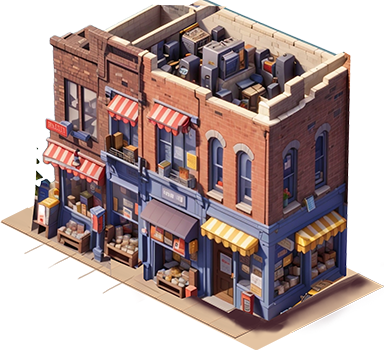
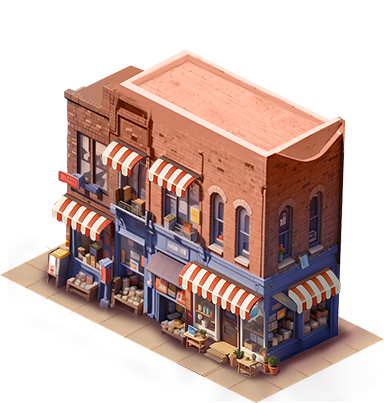
feat: update buildings (#38)
* feat: update camera limits

* feat: update buildings

diff --git a/lib/common/components/building_component.dart b/lib/common/components/building_component.dart
@@ -2,6 +2,8 @@ import 'dart:async';
 
 import 'package:big_apple/common/components/world/main_world.dart';
 import 'package:big_apple/common/components/zone_component.dart';
+import 'package:big_apple/data/dto/enum/manufactory_type.dart';
+import 'package:big_apple/data/dto/enum/road_type.dart';
 import 'package:flutter/material.dart';
 
 import 'package:flame/components.dart';
@@ -31,7 +33,8 @@ class BuildingComponent extends SpriteComponent
     super.anchor = Anchor.center,
     bool markAsBuild = false,
   }) : super(
-          priority: building.coordinates.y.toInt() + 100,
+          priority: building.coordinates.y.toInt() +
+              (building.building.type == ManufactoryType.coalElectricStation ? 100 : 0),
           position: Vector2(building.coordinates.x, building.coordinates.y),
         ) {
     id = building.id;
@@ -70,9 +73,18 @@ class BuildingComponent extends SpriteComponent
 
   @override
   FutureOr<void> onLoad() async {
-    size = Vector2(256, 178);
     sprite = Sprite(game.images.fromCache(building.building.imageDone()));
-    position = Vector2(building.coordinates.x, building.coordinates.y);
+
+    if (building.building.type == ManufactoryType.coalElectricStation) {
+      size = Vector2(512, 533);
+      position = Vector2(building.coordinates.x, building.coordinates.y - 54);
+    } else if (building.building.type == RoadType.road) {
+      size = Vector2(256, 133);
+      position = Vector2(building.coordinates.x, building.coordinates.y + 28);
+    } else {
+      size = Vector2(256, 256);
+      position = Vector2(building.coordinates.x, building.coordinates.y - 45);
+    }
 
     return super.onLoad();
   }
@@ -119,8 +131,12 @@ class BuildingComponent extends SpriteComponent
     ZoneComponent? zone = world.getZoneByVector2(newPosition);
 
     if (zone?.isAvailable == true) {
+      if (building.building.type == RoadType.road) {
+        position = newPosition + Vector2(0, 28);
+      } else {
+        position = newPosition - Vector2(0, 45);
+      }
       priority = position.y.toInt() + 100;
-      position = newPosition;
       if (_isBuild) {
         zone?.changeAvailability(false);
         ZoneComponent? previousZone = world.getZoneByVector2(positionBeforeDrag!);

diff --git a/lib/data/dto/apartment.dart b/lib/data/dto/apartment.dart
@@ -182,7 +182,7 @@ class Apartment extends Building<ApartmentType> {
         path = Assets.images.apartmentLvl1.path;
         break;
       case ApartmentType.skyscraper:
-        path = Assets.images.apartmentLvl1.path;
+        path = Assets.images.scyscraperLvl1.path;
         break;
     }
     if (replacePath) return path.removeAssetsImagesPath();
@@ -194,13 +194,13 @@ class Apartment extends Building<ApartmentType> {
     String path = '';
     switch (type) {
       case ApartmentType.house:
-        path = Assets.images.houseLvl1Half.path;
+        path = Assets.images.initialBuilding1x1.path;
         break;
       case ApartmentType.apartment:
-        path = Assets.images.apartmentLvl1.path;
+        path = Assets.images.initialBuilding2x1.path;
         break;
       case ApartmentType.skyscraper:
-        path = Assets.images.apartmentLvl1.path;
+        path = Assets.images.initialBuilding2x2.path;
         break;
     }
     if (replacePath) return path.removeAssetsImagesPath();
@@ -212,13 +212,13 @@ class Apartment extends Building<ApartmentType> {
     String path = '';
     switch (type) {
       case ApartmentType.house:
-        path = Assets.images.initialBuilding1On1.path;
+        path = Assets.images.initialBuilding1x1.path;
         break;
       case ApartmentType.apartment:
-        path = Assets.images.apartmentLvl1.path;
+        path = Assets.images.initialBuilding2x1.path;
         break;
       case ApartmentType.skyscraper:
-        path = Assets.images.apartmentLvl1.path;
+        path = Assets.images.initialBuilding2x2.path;
         break;
     }
     if (replacePath) return path.removeAssetsImagesPath();

diff --git a/lib/data/dto/manufactory.dart b/lib/data/dto/manufactory.dart
@@ -194,13 +194,13 @@ class Manufactory extends Building<ManufactoryType> {
     String path = '';
     switch (type) {
       case ManufactoryType.coalElectricStation:
-        path = Assets.images.coalLvl1.path;
+        path = Assets.images.initialBuilding2x2.path;
         break;
       case ManufactoryType.atomicElectricityStation:
-        path = Assets.images.atomLvl1.path;
+        path = Assets.images.initialBuilding2x2.path;
         break;
       case ManufactoryType.windElectricityStation:
-        path = Assets.images.electricityLvl1.path;
+        path = Assets.images.initialBuilding1x1.path;
         break;
     }
     if (replacePath) return path.removeAssetsImagesPath();
@@ -212,13 +212,13 @@ class Manufactory extends Building<ManufactoryType> {
     String path = '';
     switch (type) {
       case ManufactoryType.coalElectricStation:
-        path = Assets.images.coalLvl1.path;
+        path = Assets.images.initialBuilding2x2.path;
         break;
       case ManufactoryType.atomicElectricityStation:
-        path = Assets.images.atomLvl1.path;
+        path = Assets.images.initialBuilding2x2.path;
         break;
       case ManufactoryType.windElectricityStation:
-        path = Assets.images.initialBuilding1On1.path;
+        path = Assets.images.initialBuilding1x1.path;
         break;
     }
     if (replacePath) return path.removeAssetsImagesPath();

diff --git a/lib/data/dto/commercial.dart b/lib/data/dto/commercial.dart
@@ -210,13 +210,13 @@ class Commercial extends Building<CommercialType> {
     String path = '';
     switch (type) {
       case CommercialType.store:
-        path = Assets.images.initialBuilding1On1.path;
+        path = Assets.images.initialBuilding1x1.path;
         break;
       case CommercialType.market:
-        path = Assets.images.marketLvl1.path;
+        path = Assets.images.initialBuilding2x1.path;
         break;
       case CommercialType.cityMall:
-        path = Assets.images.mallLvl1.path;
+        path = Assets.images.initialBuilding2x2.path;
         break;
     }
     if (replacePath) return path.removeAssetsImagesPath();
@@ -228,13 +228,13 @@ class Commercial extends Building<CommercialType> {
     String path = '';
     switch (type) {
       case CommercialType.store:
-        path = Assets.images.initialBuilding1On1.path;
+        path = Assets.images.initialBuilding1x1.path;
         break;
       case CommercialType.market:
-        path = Assets.images.marketLvl1.path;
+        path = Assets.images.initialBuilding2x1.path;
         break;
       case CommercialType.cityMall:
-        path = Assets.images.mallLvl1.path;
+        path = Assets.images.initialBuilding2x2.path;
         break;
     }
     if (replacePath) return path.removeAssetsImagesPath();

diff --git a/lib/data/dto/road.dart b/lib/data/dto/road.dart
@@ -76,7 +76,7 @@ class Road extends Building<RoadType> {
     String path = '';
     switch (type) {
       case RoadType.road:
-        path = Assets.images.houseLvl1.path;
+        path = Assets.images.road.path;
         break;
     }
     if (replacePath) return path.removeAssetsImagesPath();
@@ -88,7 +88,7 @@ class Road extends Building<RoadType> {
     String path = '';
     switch (type) {
       case RoadType.road:
-        path = Assets.images.houseLvl1.path;
+        path = Assets.images.road.path;
         break;
     }
     if (replacePath) return path.removeAssetsImagesPath();
@@ -100,7 +100,7 @@ class Road extends Building<RoadType> {
     String path = '';
     switch (type) {
       case RoadType.road:
-        path = Assets.images.houseLvl1.path;
+        path = Assets.images.road.path;
         break;
     }
     if (replacePath) return path.removeAssetsImagesPath();

diff --git a/lib/big_apple_game.dart b/lib/big_apple_game.dart
@@ -150,7 +150,7 @@ class BigAppleGame extends CommonGame with ScaleDetector {
     cam = AppCameraComponent(world: level);
     final bounds = Rectangle.fromLTWH(0, 0, level!.worldWidth, level!.worldHeight);
     cam?.setBounds(bounds);
-    final initialPosition = Vector2(1340, 6826);
+    final initialPosition = Vector2(984, 7100);
     cam?.viewfinder.position = initialPosition;
     cam?.initZoom();
 

diff --git a/lib/common/components/app_camera_component.dart b/lib/common/components/app_camera_component.dart
@@ -31,8 +31,8 @@ class AppCameraComponent extends CameraComponent {
     final newPosition = currentPosition - scaledDelta;
 
     // Limit the camera movement to the game world
-    if (newPosition.x < 1340) {
-      newPosition.x = 1340;
+    if (newPosition.x < 984) {
+      newPosition.x = 984;
     } else if (newPosition.x > 8020) {
       newPosition.x = 8020;
     }

diff --git a/lib/common/components/port_component.dart b/lib/common/components/port_component.dart
@@ -11,6 +11,7 @@ class PortComponent extends SpriteComponent with HasGameReference<BigAppleGame>,
   FutureOr<void> onLoad() {
     size = Vector2(937, 557);
     position = Vector2(128, 6826);
+    priority = position.y.toInt() + 100;
     sprite = Sprite(game.images.fromCache(Assets.images.portLvl3.asset()));
     return super.onLoad();
   }

diff --git a/lib/di/modules/app_write_module.dart b/lib/di/modules/app_write_module.dart
@@ -1,5 +1,5 @@
 import 'package:appwrite/appwrite.dart';
-import 'package:big_apple/common/environments/app_environment.dart';
+import 'package:big_apple/common/components/environments/app_environment.dart';
 import 'package:injectable/injectable.dart';
 
 @module

diff --git a/lib/common/components/environments/production_environment.dart b/lib/common/components/environments/production_environment.dart
@@ -1,6 +1,6 @@
 import 'package:injectable/injectable.dart';
 
-import 'package:big_apple/common/environments/app_environment.dart';
+import 'package:big_apple/common/components/environments/app_environment.dart';
 
 @prod
 @LazySingleton(as: AppEnvironment)
